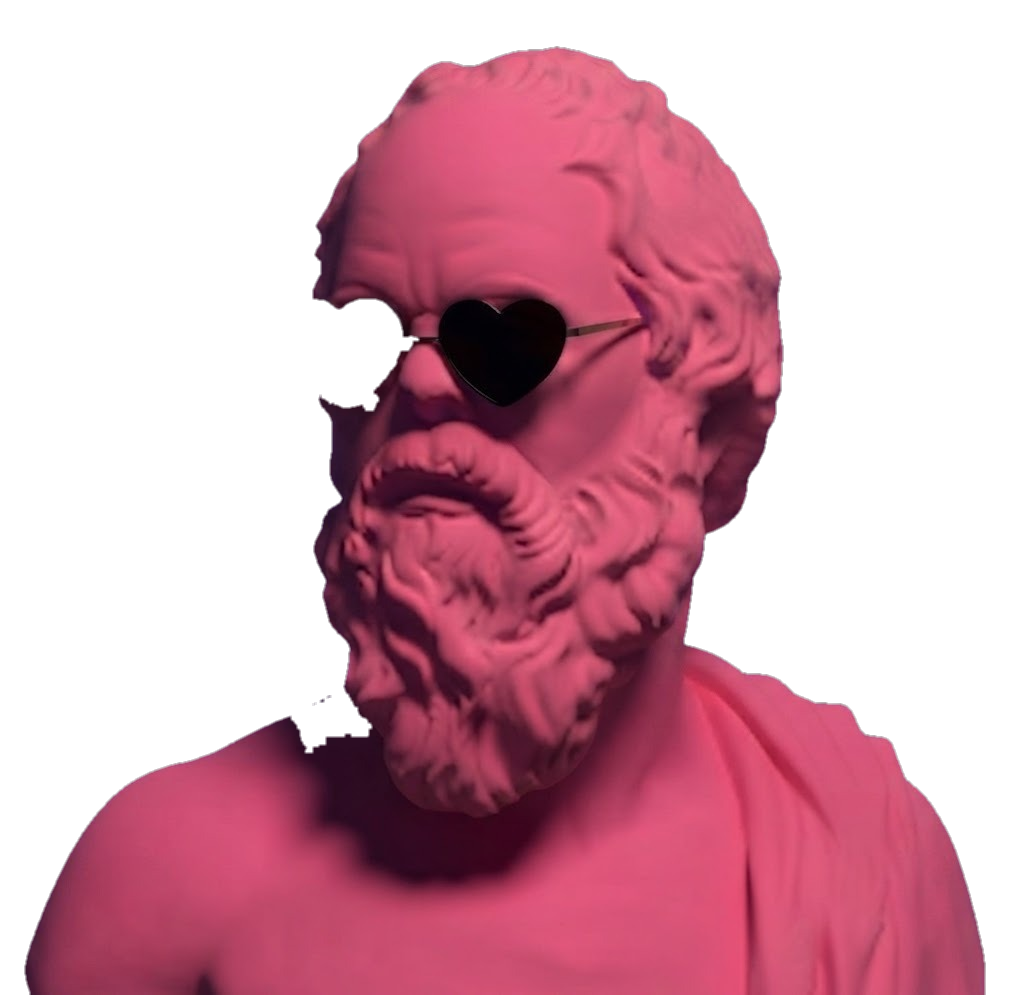
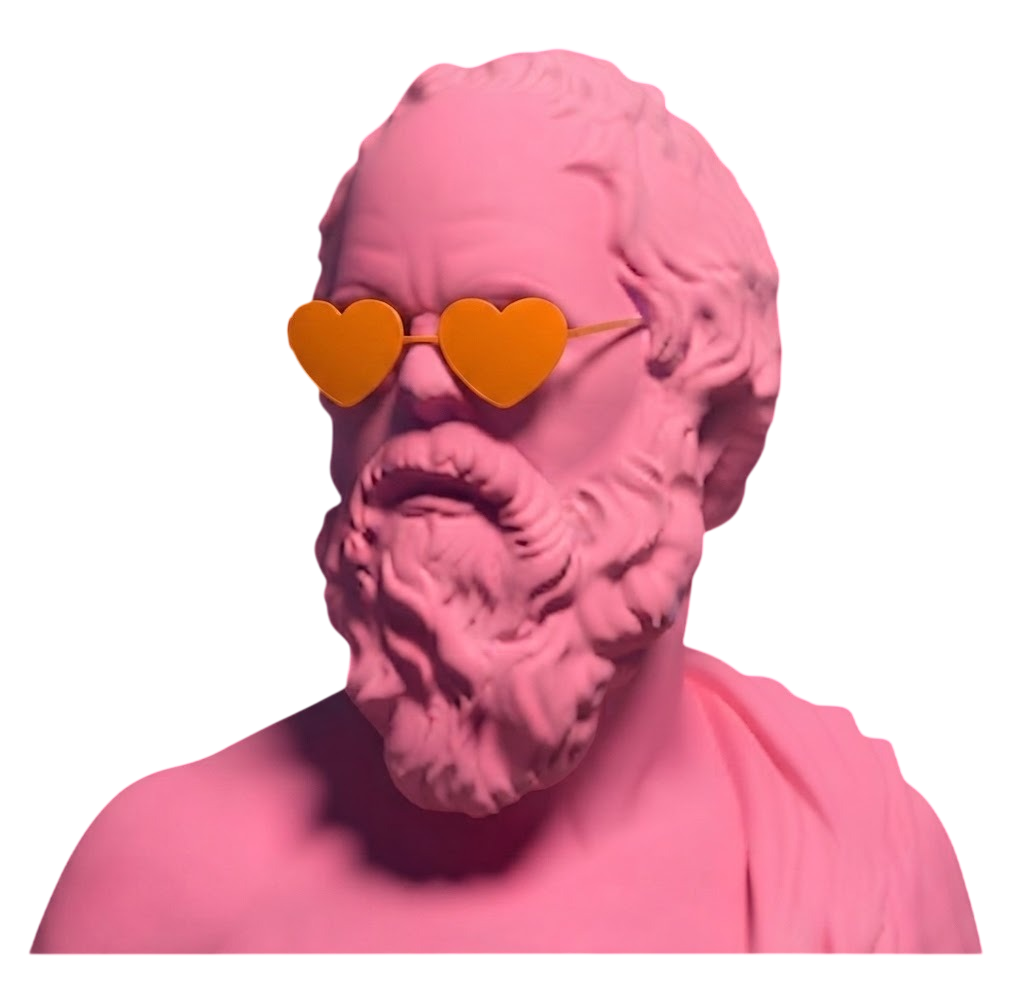
feat: adjust resenas-bust-img positioning and size for better layout

diff --git a/artifacts/clark-kent/src/index.css b/artifacts/clark-kent/src/index.css
@@ -2067,10 +2067,10 @@ body {
 }
 .resenas-bust-img {
   position: absolute;
-  left: 66%;
-  bottom: -16%;
+  left: 50%;
+  bottom: -12%;
   transform: translateX(-50%);
-  height: 118%;
+  height: 115%;
   width: auto;
   max-width: none;
   display: block;
